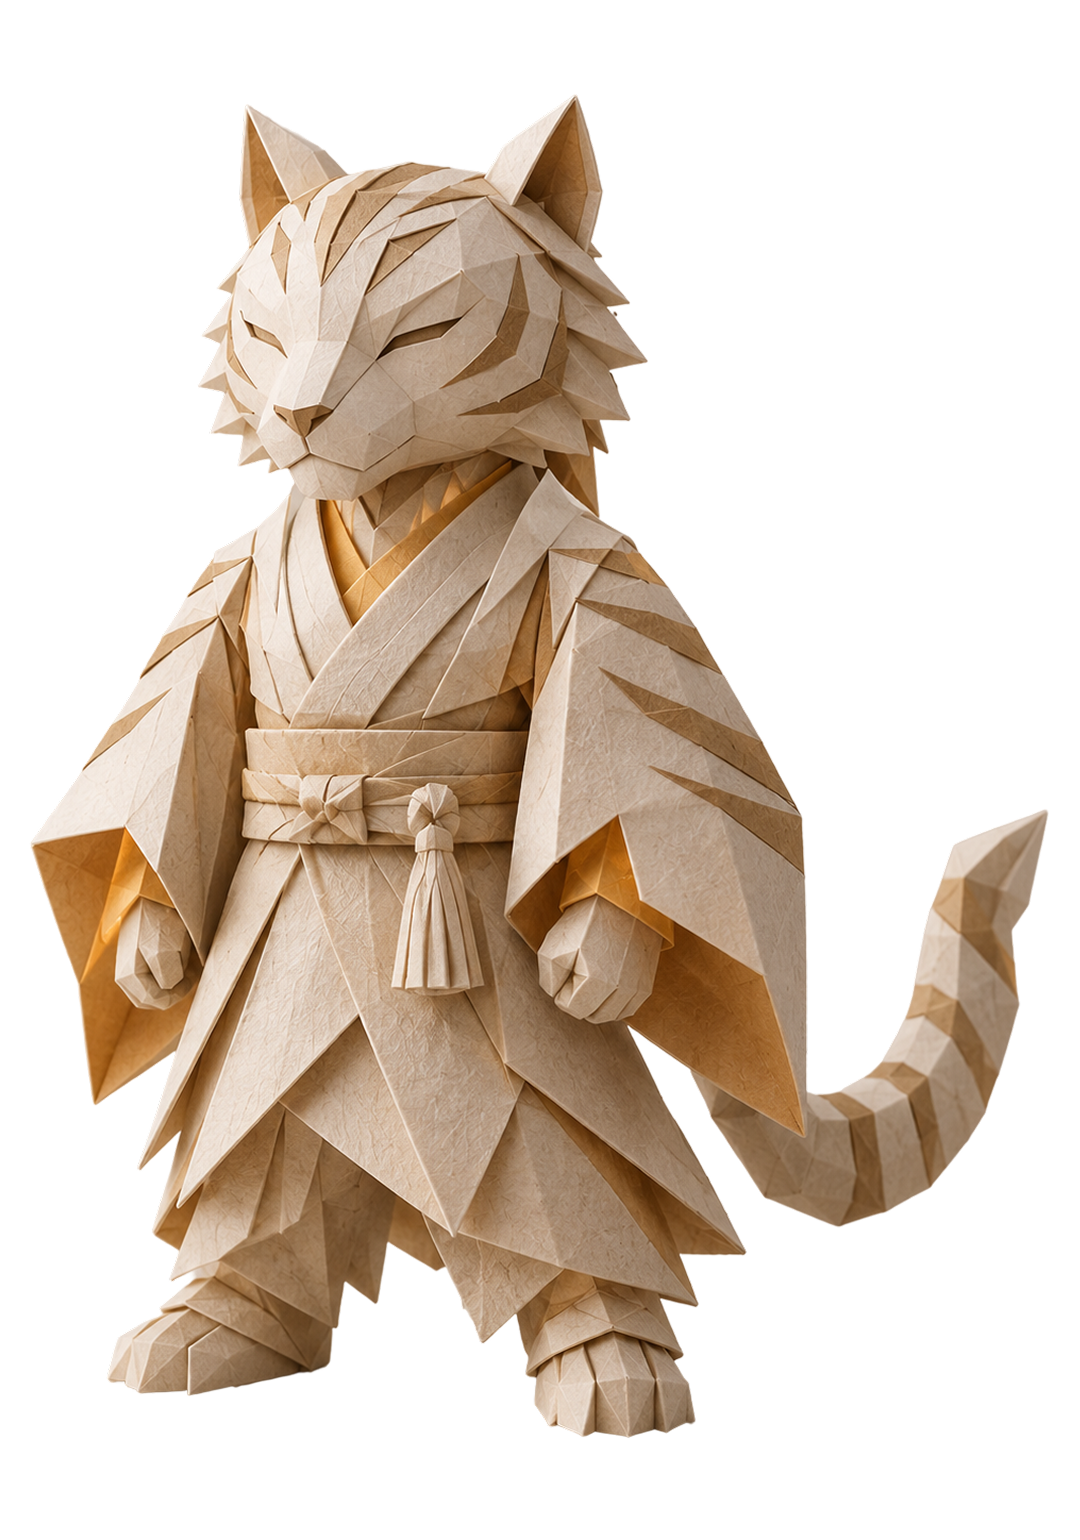
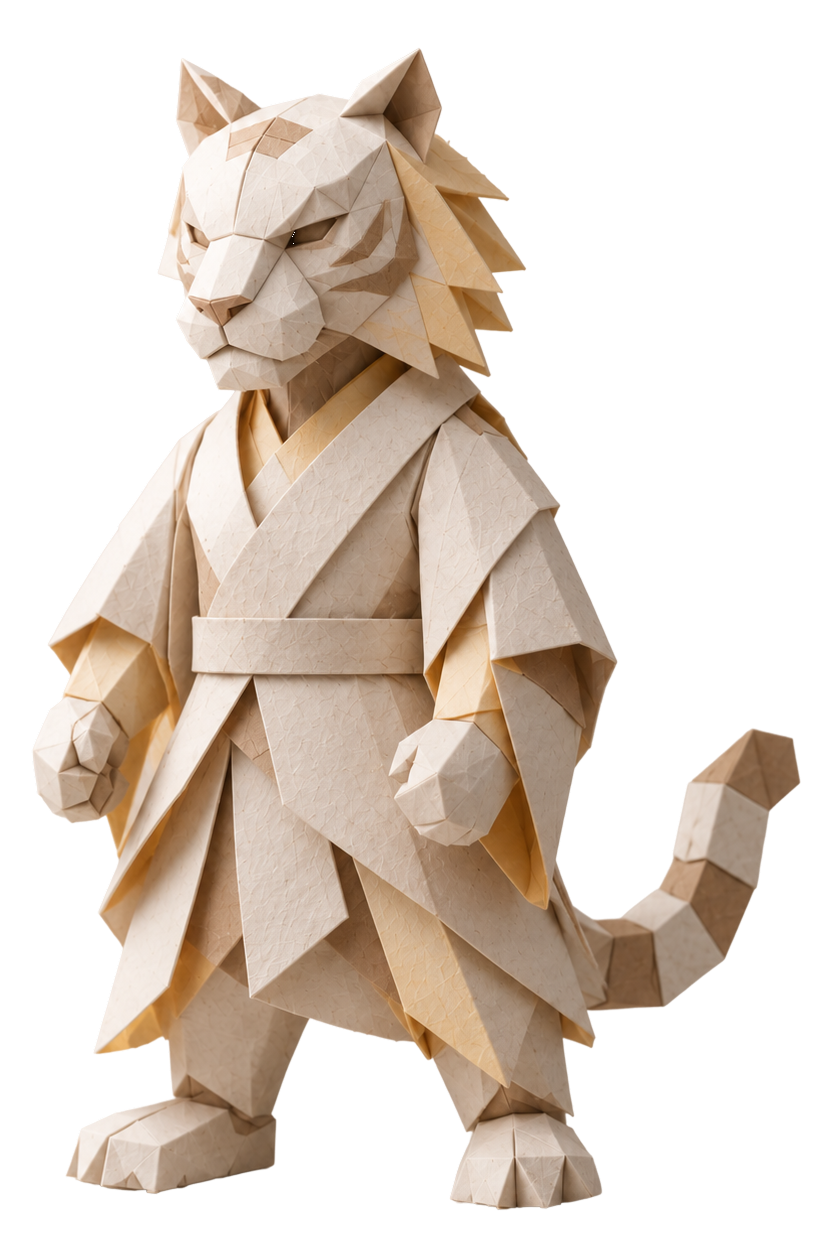
Troca o Tigre da galeria pelo origami novo, ao lado da Coruja.

diff --git a/IkiApp/en/index.html b/IkiApp/en/index.html
@@ -113,7 +113,7 @@
 
     <link rel="stylesheet" href="../variables.css?v=iki-28" />
     <link rel="stylesheet" href="../style.css?v=iki-28" />
-    <link rel="stylesheet" href="../iki-theme.css?v=iki-28" />
+    <link rel="stylesheet" href="../iki-theme.css?v=iki-29" />
 
     <!-- JSON-LD: WebSite + SoftwareApplication + Organization + FAQ + Breadcrumb -->
     <script type="application/ld+json">

diff --git a/IkiApp/index.html b/IkiApp/index.html
@@ -113,7 +113,7 @@
 
     <link rel="stylesheet" href="./variables.css?v=iki-28" />
     <link rel="stylesheet" href="./style.css?v=iki-28" />
-    <link rel="stylesheet" href="./iki-theme.css?v=iki-28" />
+    <link rel="stylesheet" href="./iki-theme.css?v=iki-29" />
 
     <!-- JSON-LD: WebSite + SoftwareApplication + Organization + FAQ + Breadcrumb -->
     <script type="application/ld+json">

diff --git a/IkiApp/iki-theme.css b/IkiApp/iki-theme.css
@@ -474,7 +474,7 @@ body.ds-saas {
   object-view-box: inset(9.51% 16.59% 4.51% 18.12%);
 }
 .iki-tile img[src*="tiger.png"] {
-  object-view-box: inset(2.18% 0% 2.70% 0%);
+  object-view-box: inset(3.74% 3.73% 3.82% 3.85%);
 }
 .iki-tile img[src*="falcao.png"] {
   object-view-box: inset(0.35% 1.40% 3.99% 5.21%);
